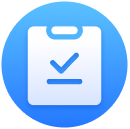
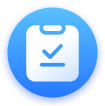
feat: icon图标更换

diff --git a/src/packages/basic-right-container-wap/src/components/questionnaire-icon/index.vue b/src/packages/basic-right-container-wap/src/components/questionnaire-icon/index.vue
@@ -3,8 +3,14 @@
     class="icon-wrap"
     v-if="questionnaireServerState.iconVisible || (QuestionList && QuestionList.length > 0)"
   >
-    <img src="./images/questionnaire.png" alt="" @click="clickQuestionnaireIcon" />
-    <i class="dot" v-if="questionnaireServerState.dotVisible" />
+    <img
+      src="./images/questionnaire_no.png"
+      alt=""
+      @click="clickQuestionnaireIcon"
+      v-if="questionnaireServerState.dotVisible"
+    />
+    <img src="./images/questionnaire.png" alt="" @click="clickQuestionnaireIcon" v-else />
+    <!-- <i class="dot" v-if="questionnaireServerState.dotVisible" /> -->
     <!-- 问卷列表弹框 -->
     <div class="popup_base" v-if="showQuestionList"></div>
     <van-popup
@@ -46,7 +52,7 @@
   </div>
 </template>
 <script>
-  import { useQuestionnaireServer, useRoomBaseServer } from 'middle-domain';
+  import { useQuestionnaireServer } from 'middle-domain';
   export default {
     name: 'QuestionnaireIcon',
     data() {
@@ -75,8 +81,6 @@
             let arr = val.filter(item => item.is_answered == 0);
             if (arr.length > 0) {
               this.questionnaireServer.setDotVisible(true);
-              // 展示icon数量+1
-              this.roomBaseServer.setShowIconNum(true);
             } else {
               this.questionnaireServer.setDotVisible(false);
             }
@@ -91,7 +95,6 @@
       this.questionnaireServer = useQuestionnaireServer({
         mode: 'watch'
       });
-      this.roomBaseServer = useRoomBaseServer();
     },
     created() {
       this.questionnaireServer.checkIconStatus();

diff --git a/src/packages/basic-right-container-wap/src/main.vue b/src/packages/basic-right-container-wap/src/main.vue
@@ -5,7 +5,7 @@
       <questionnaire-icon class="icon-wrap" @clickIcon="checkQuestionnaireIcon" />
       <!-- 签到 -->
       <div class="icon-wrap" @click="handleSign" v-show="showSign && webinarType == 1">
-        <div class="have"></div>
+        <!-- <div class="have"></div> -->
         <img src="./image/icon.png" />
       </div>
       <!-- 抽奖 -->
@@ -22,8 +22,9 @@
       />
       <!-- 计时器 -->
       <div class="icon-wrap" @click="handleTimer" v-show="showTimer && webinarType == 1">
-        <div :class="!timerVisible ? 'have' : ''"></div>
-        <img src="./image/timer.png" />
+        <!-- <div :class="!timerVisible ? 'have' : ''"></div> -->
+        <img src="./image/timer.png" v-if="timerVisible" />
+        <img src="./image/timer_no.png" v-else />
       </div>
       <!-- 公告列表 -->
       <noticeList></noticeList>
@@ -127,7 +128,7 @@
       flex-direction: column;
       position: absolute;
       display: inline-block;
-      right: 24px;
+      right: 28px;
       bottom: 108px;
       // width: 20px;
       .icon-wrap {

diff --git a/src/packages/basic-right-container-wap/src/components/lottery-icon/index.vue b/src/packages/basic-right-container-wap/src/components/lottery-icon/index.vue
@@ -1,7 +1,14 @@
 <template>
   <div class="icon-wrap" v-if="lotteryServerState.iconVisible">
-    <img class="icon" src="./images/icon.png" alt="" @click="checkLotteryIcon" />
-    <i class="dot" v-if="lotteryServerState.docVisible" />
+    <img
+      class="icon"
+      src="./images/icon_no.png"
+      alt=""
+      @click="checkLotteryIcon"
+      v-if="lotteryServerState.docVisible"
+    />
+    <img class="icon" src="./images/icon.png" alt="" @click="checkLotteryIcon" v-else />
+    <!-- <i class="dot" v-if="lotteryServerState.docVisible" /> -->
   </div>
 </template>
 <script>

diff --git a/src/packages/basic-right-container-wap/src/components/red-repakcet-icon/index.vue b/src/packages/basic-right-container-wap/src/components/red-repakcet-icon/index.vue
@@ -1,7 +1,8 @@
 <template>
   <div class="icon-wrap" v-if="redPacketServerState.iconVisible" @click="checkRedPacketIcon">
-    <img src="./images/redPacket.png" alt="" />
-    <i class="dot" v-if="redPacketServerState.dotVisible" />
+    <img src="./images/redPacket_no.png" alt="" v-if="redPacketServerState.dotVisible" />
+    <img src="./images/redPacket.png" alt="" v-else />
+    <!-- <i class="dot" v-if="redPacketServerState.dotVisible" /> -->
   </div>
 </template>
 <script>

diff --git a/src/packages/basic-right-container-wap/src/components/noticeList/index.vue b/src/packages/basic-right-container-wap/src/components/noticeList/index.vue
@@ -181,7 +181,7 @@
     height: 60px;
     position: relative;
     font-size: 28px;
-    background: linear-gradient(180deg, #fca810 0%, #fe7d00 100%);
+    // background: linear-gradient(180deg, #fca810 0%, #fe7d00 100%);
     border-radius: 50%;
     img {
       width: 60px;

diff --git a/src/packages/intro-wap/src/main.vue b/src/packages/intro-wap/src/main.vue
@@ -173,7 +173,11 @@
     flex-direction: column;
 
     .vmp-intor-haveIcon {
-      width: calc(100% - 72px);
+      width: calc(100% - 96px);
+      .vmp-intro-block-content,
+      .vmp-intro-block {
+        padding-right: 0;
+      }
     }
 
     .vmp-intro-block {
